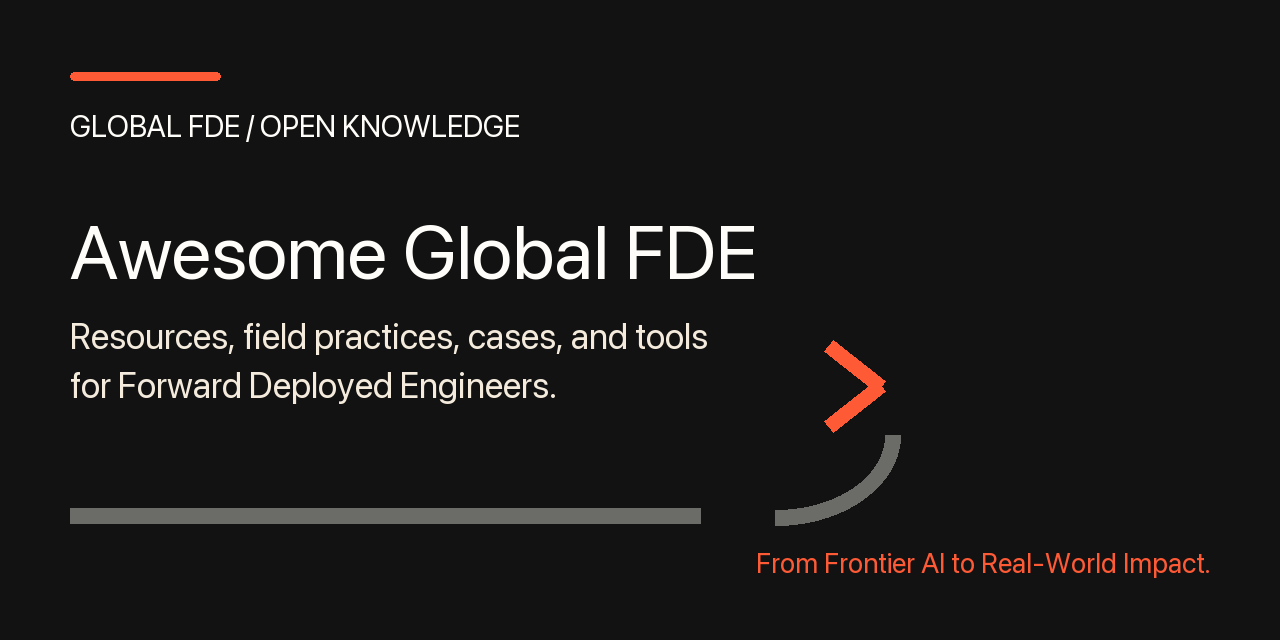
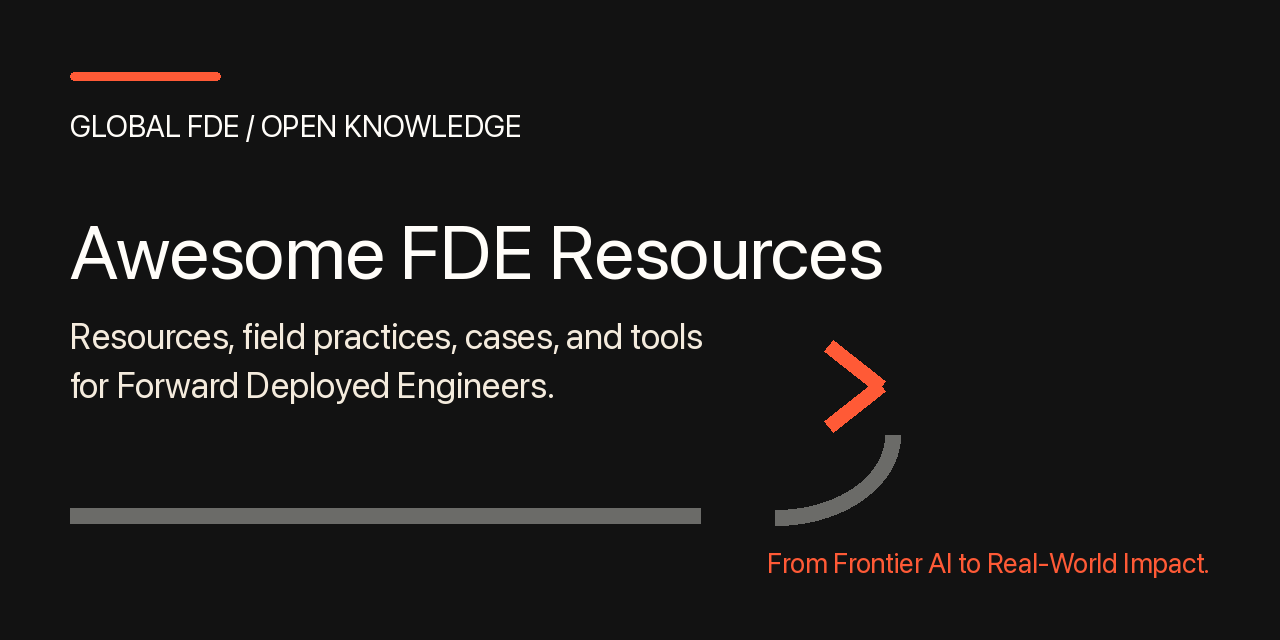
Polish repository launch metadata

diff --git a/scripts/render_social_preview.py b/scripts/render_social_preview.py
@@ -30,7 +30,7 @@ def main() -> None:
     draw = ImageDraw.Draw(image)
     draw.rounded_rectangle((70, 72, 220, 80), radius=4, fill=ORANGE)
     draw.text((70, 108), "GLOBAL FDE / OPEN KNOWLEDGE", font=font(30), fill=PAPER)
-    draw.text((70, 205), "Awesome Global FDE", font=font(76), fill=PAPER)
+    draw.text((70, 205), "Awesome FDE Resources", font=font(76), fill=PAPER)
     draw.text((70, 314), "Resources, field practices, cases, and tools", font=font(36), fill=SAND)
     draw.text((70, 363), "for Forward Deployed Engineers.", font=font(36), fill=SAND)
     draw.line((70, 515, 700, 515), fill=GRAY, width=16)

diff --git a/CONTRIBUTING.md b/CONTRIBUTING.md
@@ -1,4 +1,4 @@
-# Contributing to Awesome Global FDE
+# Contributing to Awesome FDE Resources
 
 Thank you for helping build a useful knowledge base for Forward Deployed
 Engineers. We value a small number of well-explained resources more than a
